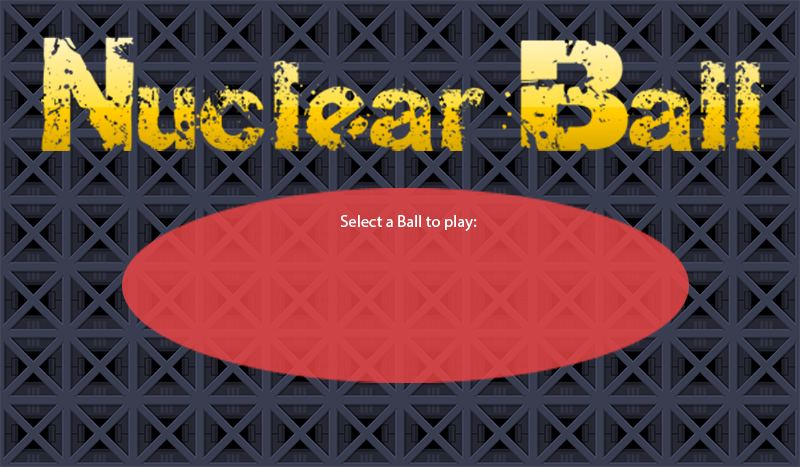
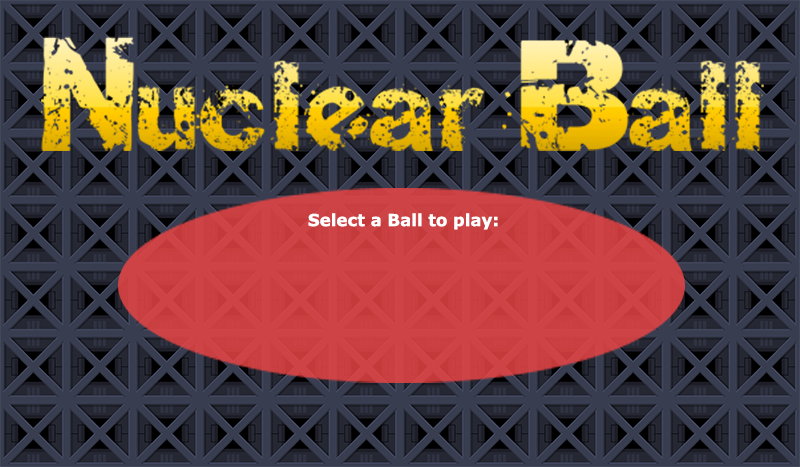
Cambio fuente HUD

diff --git a/NuclearBall/NuclearBall.js b/NuclearBall/NuclearBall.js
@@ -455,7 +455,7 @@ window.addEventListener("load",function() {
             buttonB1.on("click",function() {
                 Q.state.set({score: 0, lives: 3, level: 6, lanzada: -1, moneda: true, bomba: true, assetBall: "ball.png"});
                 Q.clearStages();
-                Q.stageScene("level8");    
+                Q.stageScene("level7");    
                 Q.audio.play('music.mp3',{ loop: true });       
             });
 
@@ -841,8 +841,10 @@ window.addEventListener("load",function() {
                     label: p.label,
                     x: 0,
                     y: 30,
-                    size: 18,
+                    size: 24,
                     color: "white",
+                    family: "Fantasia",
+                    outlineWidth: 8
                 });
 
                 Q.state.on("change.score",this,"score");

diff --git a/NuclearBall/lib/quintus_ui.js b/NuclearBall/lib/quintus_ui.js
@@ -398,7 +398,7 @@ Quintus.UI = function(Q) {
       ctx.fillStyle = this.p.color || "black";
       ctx.textAlign = this.p.align || "left";
       ctx.strokeStyle = this.p.outlineColor || "black";
-      ctx.lineWidth = this.p.outlineWidth || 0;
+      ctx.lineWidth = this.p.outlineWidth || 10;
     },
 
     font: function() {
@@ -406,7 +406,7 @@ Quintus.UI = function(Q) {
 
       this.fontString = (this.p.weight || "800") + " " +
                         (this.p.size || 24) + "px " +
-                        (this.p.family || "Arial");
+                        (this.p.family || "Fantasía");
 
       return this.fontString;
     }
